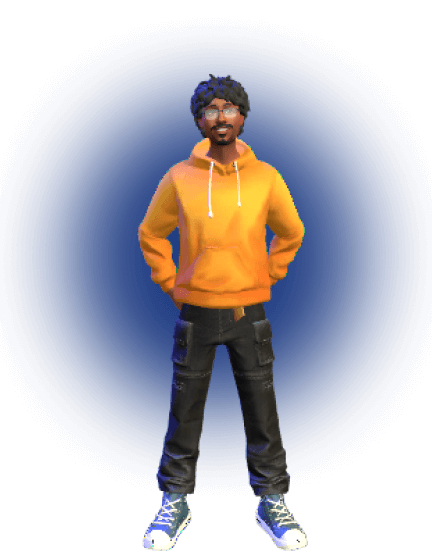
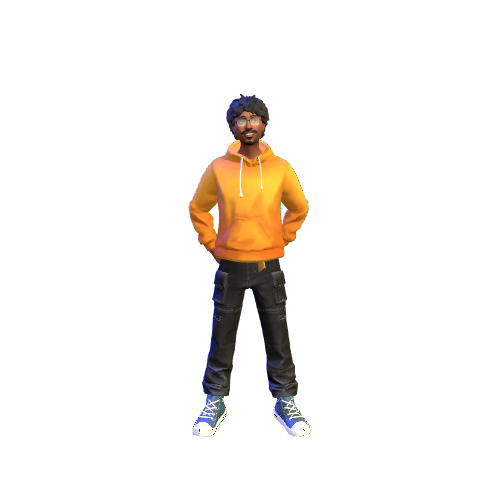
sidebar e responsividade

diff --git a/app/comp/apresentacao.js b/app/comp/apresentacao.js
@@ -5,23 +5,26 @@ import Contatos from './contatos'
 export default function Apresentacao(){
 
     return(
-        <session className="flex items-center justify-center relative w-full min-h-screen">
+        <session className="flex items-center justify-center relative w-full px-4 h-fit pt-40 pb-10 sm:pt-0 sm:min-h-screen ellipseMobile">
+            
             <div className="flex flex-col items-center w-full z-10">
                 <p className="text-center text-3xl">Ola, meu nome é Mayck Luciano e sou um</p>
                 <h1 className="text-center text-4xl text-amber-400">Desenvolvedor Front-End</h1>
-                <p className="text-center text-slate-500 w-2/4">Desenvolvo sites novos e aprimoro sites ja criados tornando a experiencia do usuario o mais prazerora possivel.</p>
+                <p className="text-center text-slate-500 w-full sm:w-2/4">Desenvolvo sites novos e aprimoro sites ja criados tornando a experiencia do usuario o mais prazerora possivel.</p>
             </div>
             
-            <div className="relative bottom-10 right-40">
+            <div className="relative bottom-10 right-40 ellipse">
                 <Image src="/backgroundPerfil.png" alt="background da foto de perfil" width={300} height={300}
-                className='absolute left-8 animate-pulse'/>
+                className='absolute left-8 animate-pulse z-10 hidden sm:block'/>
                 <Image src="/me.png" alt="imagem de perfil" width={500} height={500}
-                className='cursor-pointer hidden sm:block'/>
+                className='cursor-pointer hidden sm:block scale-125'/>
+                {/* <Image src="/ellipse.png" alt="Ellipse" width={500} height={500}
+                className='cursor-pointer hidden sm:block absolute top-0'/> */}
             </div>
 
             <Contatos/>
 
-            <div className="absolute bottom-5 w-full flex flex-col items-center">
+            <div className="absolute -bottom-20 sm:bottom-5 w-full flex flex-col items-center">
                 <a href="#tecnologias" className="bg-amber-400 px-6 py-1 text-lg rounded-lg text-slate-800 mb-4 hover:scale-110 transition-all">Veja Mais</a>
                 <Image src={'/setas.svg'} alt="setas para baixo" width={30} height={30} className="animate-bounce"/>
             </div>

diff --git a/app/page.js b/app/page.js
@@ -10,6 +10,7 @@ import { useCallback } from 'react'
 import Sobre from './comp/sobre'
 import Progresso from './comp/progresso'
 import Footer from './comp/footer'
+import SideBar from './comp/sideBar'
 
 
 export default function Home() {
@@ -19,6 +20,7 @@ export default function Home() {
   const [mostraSobre, setMostraSobre] = useState(false)
   const [mostraBarra, setMostraBarra] = useState(false)
   const [mostraFooter, setMostraFooter] = useState(false)
+  const [menu, setMenu] = useState('-right-[100%]')
 
   // CALCULA SE O ELEMENTO APARECEU NA ROLAGEM DA TELA
   const onScroll = useCallback(event => {
@@ -63,17 +65,25 @@ export default function Home() {
   // ADICIONA FUNÇÃO DE SCROLL NO WINDOW
   useEffect(() => {
     //add eventlistener to window
-    window.addEventListener("scroll", onScroll, { passive: true });
-    // remove event on unmount to prevent a memory leak with the cleanup
-    return () => {
-      window.removeEventListener("scroll", onScroll, { passive: true });
+    if (window.innerWidth >= 640) {
+      window.addEventListener("scroll", onScroll, { passive: true });
+      // remove event on unmount to prevent a memory leak with the cleanup
+      return () => {
+        window.removeEventListener("scroll", onScroll, { passive: true });
+      }
+    }else{
+      setMostraTec(true)
+      setMostraProj(true)
+      setMostraSobre(true)
+      setMostraFooter(true)
     }
   }, []);
 
   return (
     <main className="flex min-h-screen flex-col items-center justify-center bg-slate-900 text-white font-dosis overflow-x-hidden"
       onScroll={() => scroll()}>
-      <Header />
+      <Header abreMenu={()=> setMenu('right-[0%]')}/>
+      <SideBar abreMenu={menu} fechaMenu={()=> setMenu('-right-[100%]')}/>
       <Progresso block={mostraBarra} tec={mostraTec} proj={mostraProj} sobre={mostraSobre} cont={mostraFooter} />
       <Apresentacao />
       <p id='found'></p>

diff --git a/app/comp/cardProj.js b/app/comp/cardProj.js
@@ -4,20 +4,21 @@ import { useState, useEffect } from "react"
 
 export default function CardProj(props) {
 
-    
-    const listTec = props.tec.map((img, i)=>
-        <Image src={`${img}.svg`} alt={img} width={100} height={100}
-        className='w-10' />
+
+    const listTec = props.tec.map((img, i) =>
+        <Image title={img} src={`${img}.svg`} alt={img} width={100} height={100}
+            className='w-10' />
     )
 
     return (
         <session className={`relative flex flex-col justify-center bg-slate-800 rounded-lg overflow-hidden w-60`}>
-            
-            <Image src='link.svg' width={30} height={30}
-            className="absolute top-2 right-2"/>
-            
-            <Image src={`${props.projeto}.png`} alt={props.projeto} width={100} height={100}
-                className="w-full h-36 object-cover" />
+            <a href='#'>
+                <Image src='link.svg' width={30} height={30}
+                    className="absolute top-2 right-2 hover:scale-125 transition-all" />
+
+                <Image src={`${props.projeto}.png`} alt={props.projeto} width={100} height={100}
+                    className="w-full h-36 object-cover" />
+            </a>
 
             <div className="px-4 flex flex-col justify-between h-max gap-2">
                 <h4 className="text-xl">{props.titulo}</h4>
@@ -29,7 +30,7 @@ export default function CardProj(props) {
                 </div>
 
                 <a href={props.repo} target="_blank" className="mb-4 flex gap-4 justify-start w-max bg-[#0D1117] rounded-full pl-2 pr-4 py-2 hover:bg-[#0D1117]/50 transition-all self-center">
-                    <Image src='./github-white.svg' width={30} height={30}/> 
+                    <Image src='./github-white.svg' width={30} height={30} />
                     Repositorio
                 </a>
             </div>

diff --git a/app/comp/sideBar.js b/app/comp/sideBar.js
@@ -1,0 +1,36 @@
+'use client'
+
+import Image from "next/image"
+
+export default function SideBar(props) {
+
+    return (
+        <aside className={`bg-slate-900 fixed top-0 ${props.abreMenu} w-full h-screen z-20 flex justify-end items-center px-8`}>
+            <Image src={'/menu2.svg'} alt="botão para fechar menu lateral" width={50} height={50}
+                className="absolute right-4 top-4 cursor-pointer" onClick={props.fechaMenu}/>
+
+            <div className="flex flex-col justify-around items-end h-1/2">
+                <a href="#" className="flex items-center gap-4">
+                    <p className='w-max' id="email">Mayckluciano2@gmail.com</p>
+                    <Image src="/email-white.svg" alt="Menu lateral" width={40} height={40}
+                        className='' />
+                </a>
+                <a href="#" className="flex items-center gap-4">
+                    <p className='w-max'>Front-end-Mentor</p>
+                    <Image src="/frontendMentor.svg" alt="Menu lateral" width={40} height={40}
+                        className='' />
+                </a>
+                <a href="#" className="flex items-center gap-4">
+                    <p className='w-max'>Github</p>
+                    <Image src="/github-white.svg" alt="Menu lateral" width={40} height={40}
+                        className='' />
+                </a>
+                <a href="#" className="flex items-center gap-4">
+                    <p className='w-max'>Linkedin</p>
+                    <Image src="/linkedin.svg" alt="Menu lateral" width={40} height={40}
+                        className='' />
+                </a>
+            </div>
+        </aside>
+    )
+}

diff --git a/app/globals.css b/app/globals.css
@@ -18,12 +18,9 @@
 
 body {
   color: rgb(var(--foreground-rgb));
-  background: linear-gradient(
-      to bottom,
+  background: linear-gradient(to bottom,
       transparent,
-      rgb(var(--background-end-rgb))
-    )
-    rgb(var(--background-start-rgb));
+      rgb(var(--background-end-rgb))) rgb(var(--background-start-rgb));
 }
 
 @font-face {
@@ -31,52 +28,72 @@ body {
   src: url(../static/Dosis-Bold.ttf);
 }
 
-html{
+html {
   scroll-behavior: smooth;
 }
 
-.font-dosis{
+.font-dosis {
   font-family: dosis;
 }
 
-.animaLinha{
+.animaLinha {
   animation: linha 2s ease-in-out;
   /* animation-delay: 1s; */
   /* width: 240px; */
 }
 
 @keyframes linha {
-  0%{
+  0% {
     width: 140px;
   }
-  100%{
+
+  100% {
     width: 240px;
   }
 }
 
-.renderiza{
+.renderiza {
   animation: rend 2s ease;
 }
 
 @keyframes rend {
-  0%{
+  0% {
     opacity: 0;
   }
-  100%{
+
+  100% {
     opacity: 1;
   }
 }
 
-.animaLinhaFooter{
+.animaLinhaFooter {
   animation: footer 2s ease;
   width: 80%;
 }
 
 @keyframes footer {
-  0%{
+  0% {
     width: 20%;
   }
-  100%{
+
+  100% {
     width: 80%;
+  }
+}
+
+
+.ellipse {
+  background-image: url('/ellipse.png');
+  background-size: contain;
+  background-repeat: no-repeat;
+  background-position-x: center;
+}
+
+@media (max-width: 640px) {
+  .ellipseMobile {
+    background-image: url('/ellipse.png');
+    background-size: contain;
+    background-repeat: no-repeat;
+    background-position: center;
   }
 }

diff --git a/app/comp/sobre.js b/app/comp/sobre.js
@@ -1,13 +1,24 @@
 import Image from "next/image"
+import { useEffect, useState } from "react"
 
 export default function Sobre(props) {
 
+    const [img, setImg] = useState('/backgroundSobre.png')
+
+    useEffect(()=>{
+        if(window.innerWidth >= 640){
+            setImg('/backgroundSobre.png')
+        }else{
+            setImg('/sobreMobile.png')
+        }
+    }, [])
+
     return (
-        <session id='sobre' className='p-4 w-full min-h-screen relative'>
-            <Image src={'/backgroundSobre.png'} alt="imagens de fundo" width={1000} height={1000}
+        <session id='sobre' className='p-4 w-full h-fit sm:min-h-screen relative'>
+            <Image src={img} alt="imagens de fundo" width={1000} height={1000}
                 className="w-full h-screen absolute top-0 left-0 object-contain z-10" />
 
-            <div className={`container mx-auto mt-20 z-20 renderiza ${props.block ? 'block' : 'hidden'}`}>
+            <div className={`container mx-auto  z-20 renderiza ${props.block ? 'block' : 'hidden'}`}>
                 <h2 className="text-3xl w-fit">
                     Sobre
                     <p className={`p-[2px] bg-amber-400 rounded-lg w-[240px] ${props.block ? 'animaLinha' : null}`}></p>

diff --git a/app/comp/header.js b/app/comp/header.js
@@ -1,22 +1,25 @@
 'use client'
 
+import { useState } from 'react'
 import Image from 'next/image'
+import SideBar from './sideBar'
 
+export default function Header(props){
 
-export default function Header(){
-
+    const [menu, setMenu] = useState('-right-[100%]')
     const souEu = (e)=>{
         let eu = document.querySelector('#eu').classList
         eu.toggle('opacity-0')
     }
 
     return(
-        <header className='flex justify-between px-8 py-4 fixed top-0 w-full'>
+        <header className='flex justify-between px-8 py-4 fixed top-0 w-full z-10'>
             <h1 className='text-2xl' onMouseEnter={()=> souEu()} onMouseLeave={()=> souEu()}>Mayck Luciano</h1>
             <p className='absolute top-[3rem] left-[3rem] transition-all opacity-0 ' id='eu'>Esse sou eu!</p>
 
             <Image src="menu.svg" alt="Menu lateral" width={50} height={50}
-            className='sm:hidden cursor-pointer hover:scale-125 transition-all'/>
+            className='sm:hidden cursor-pointer hover:scale-125 transition-all'
+            onClick={(props.abreMenu)}/>
         </header>
         )
 }

diff --git a/app/comp/tecnologias.js b/app/comp/tecnologias.js
@@ -12,7 +12,7 @@ export default function Tecnologias(props){
                     <p className={`p-[2px] bg-amber-400 rounded-lg w-[240px] ${props.block ? 'animaLinha' : null}`}></p>
                 </h2>
 
-                <div className="flex justify-center items-center flex-wrap gap-4 m-8 pr-16">
+                <div className="flex justify-center items-center flex-wrap gap-4 m-8 sm:pr-16">
                     <CardTec tecnologia='html' border='border-amber-400/20'/>
                     <CardTec tecnologia='css' border='border-cyan-400/20'/>
                     <CardTec tecnologia='canva' border='border-cyan-200/20'/>

diff --git a/app/comp/progresso.js b/app/comp/progresso.js
@@ -3,7 +3,7 @@
 export default function Progresso(props){
 
     return(
-        <aside className={`flex-col fixed top-1/4 right-4 w-10 z-50 renderiza ${props.block ? 'flex' : 'hidden'}`}>
+        <aside className={`flex-col fixed top-1/4 right-4 w-10 z-50 renderiza hidden sm:${props.block ? 'flex' : 'hidden'}`}>
 
             <a href="#tecnologias" className={`border-2 border-amber-500 rounded-full w-5 h-5 absolute top-0 ${props.tec ? 'bg-amber-500' : null} transition-all`}>
                 <p className="absolute right-7 -top-[6px] cursor-pointer underline-offset-1 hover:underline">Tecnologias</p>

diff --git a/app/comp/projetos.js b/app/comp/projetos.js
@@ -5,7 +5,7 @@ export default function Projetos(props) {
     let listTec = ['react', 'canva', 'css']
 
     return (
-        <session id='projetos' className='min-h-screen w-full flex items-center px-4'>
+        <session id='projetos' className='h-fit sm:min-h-screen w-full flex items-center px-4'>
 
             <div className={`container mx-auto mt-20 renderiza ${props.block ? 'block' : 'hidden'}`}>
                 <h2 className="text-3xl w-fit">
